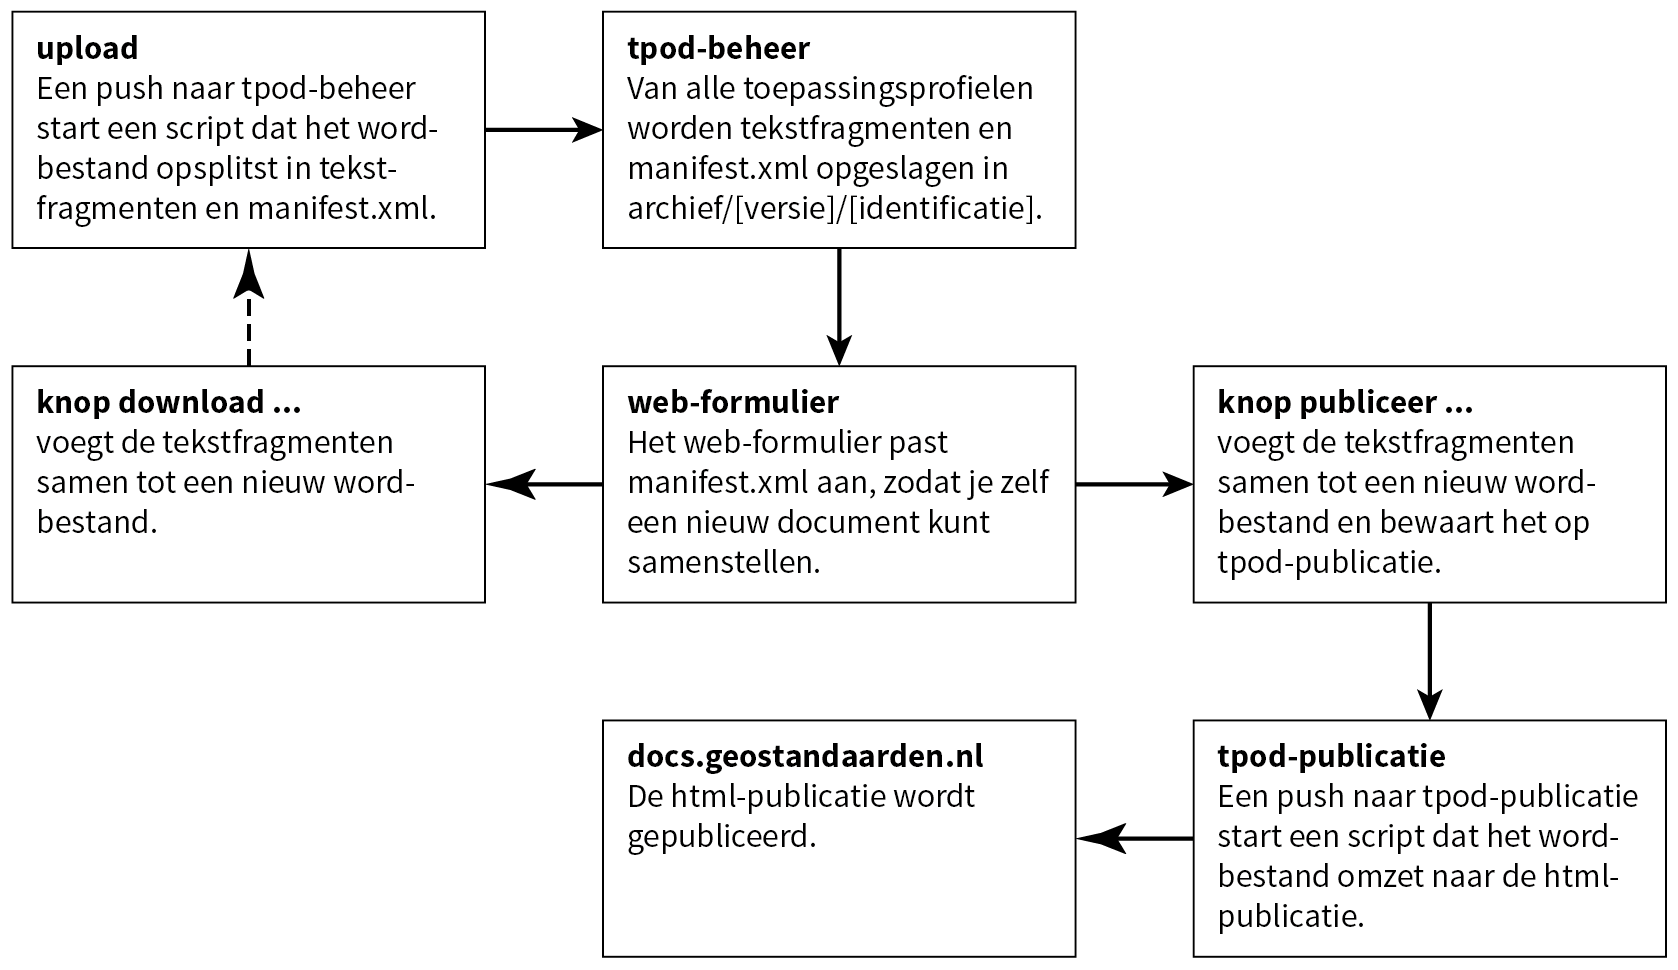
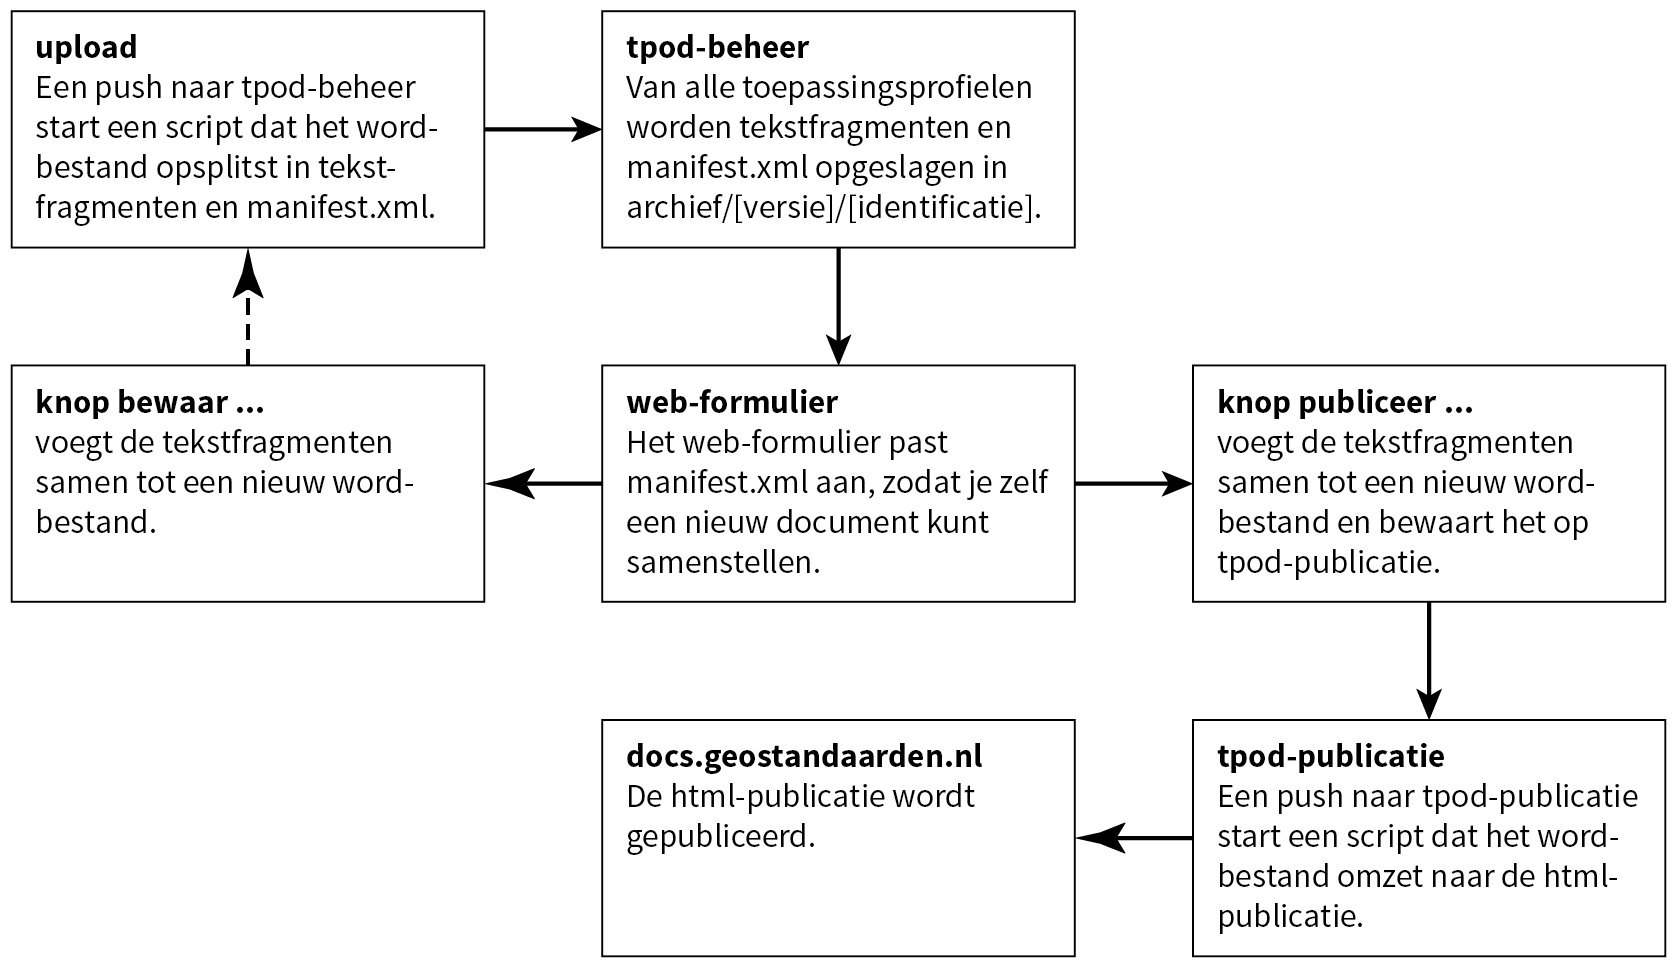
Aanpassing beschrijving

diff --git a/README.md b/README.md
@@ -17,7 +17,7 @@ Schematisch is de route voor het beheer als volgt:
 
 Deze repository bevat het centrale archief voor de opslag van alle toepassingsprofielen. De indeling is als volgt:
 
-![](media/tpod-beheer.png)
+![](media/tpod-beheer-archief.png)
 
 Door een toepassingsprofiel te pushen naar repository tpod-beheer start een transformatie dat het word-document opsplitst in tekstfragmenten. Elk tekstfragment wordt als word-document opgeslagen. De indeling van het oorspronkelijke word-document wordt vastgelegd in bestand manifest.xml.
 
@@ -69,10 +69,10 @@ Bij de documenten staat aangegeven uit welke versie deze afkomstig is. Dit wordt
 
 Het web-formulier heeft twee doelen:
 
-- Je kunt selecteren welk toepassingsprofiel je wilt downloaden of publiceren.
+- Je kunt selecteren welk toepassingsprofiel je lokaal wilt bewaren of publiceren.
 - Je kunt van het toepassingsprofiel de indeling veranderen door manifest.xml aan te passen.
 
-Het web-formulier bevat twee knoppen, ‘download’ en ‘publiceer’. Beide voeren een transformatie uit dat op basis van manifest.xml een nieuw word-document samenstelt. Knop ‘publiceer’ slaat daarna het word-bestand op in repository tpod-publicatie, waardoor een script start.
+Het web-formulier bevat twee knoppen, ‘bewaar’ en ‘publiceer’. Beide voeren een transformatie uit dat op basis van manifest.xml een nieuw word-document samenstelt. Knop ‘bewaar’ slaat het word-bestand lokaal op, knop ‘publiceer’ in repository tpod-publicatie, waardoor een script start.
 
 ## tpod-publicatie
 
